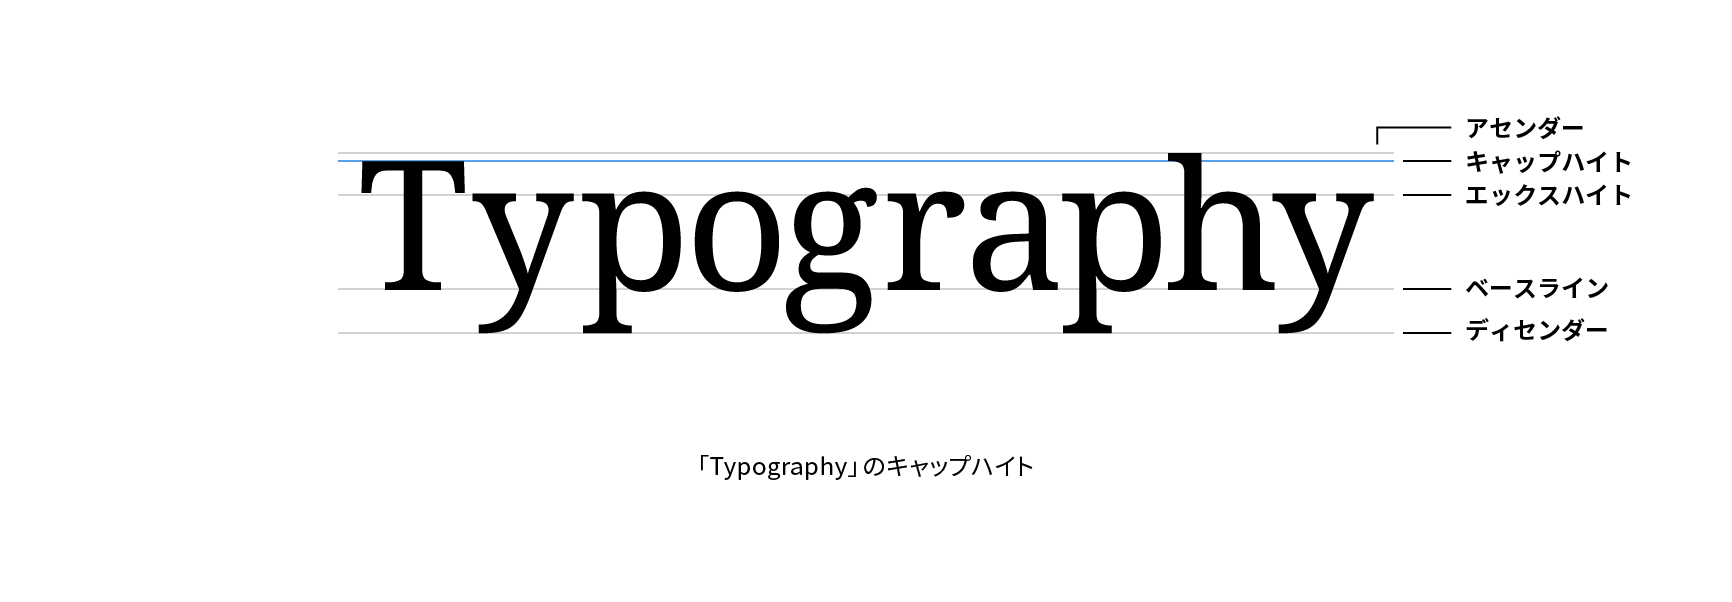
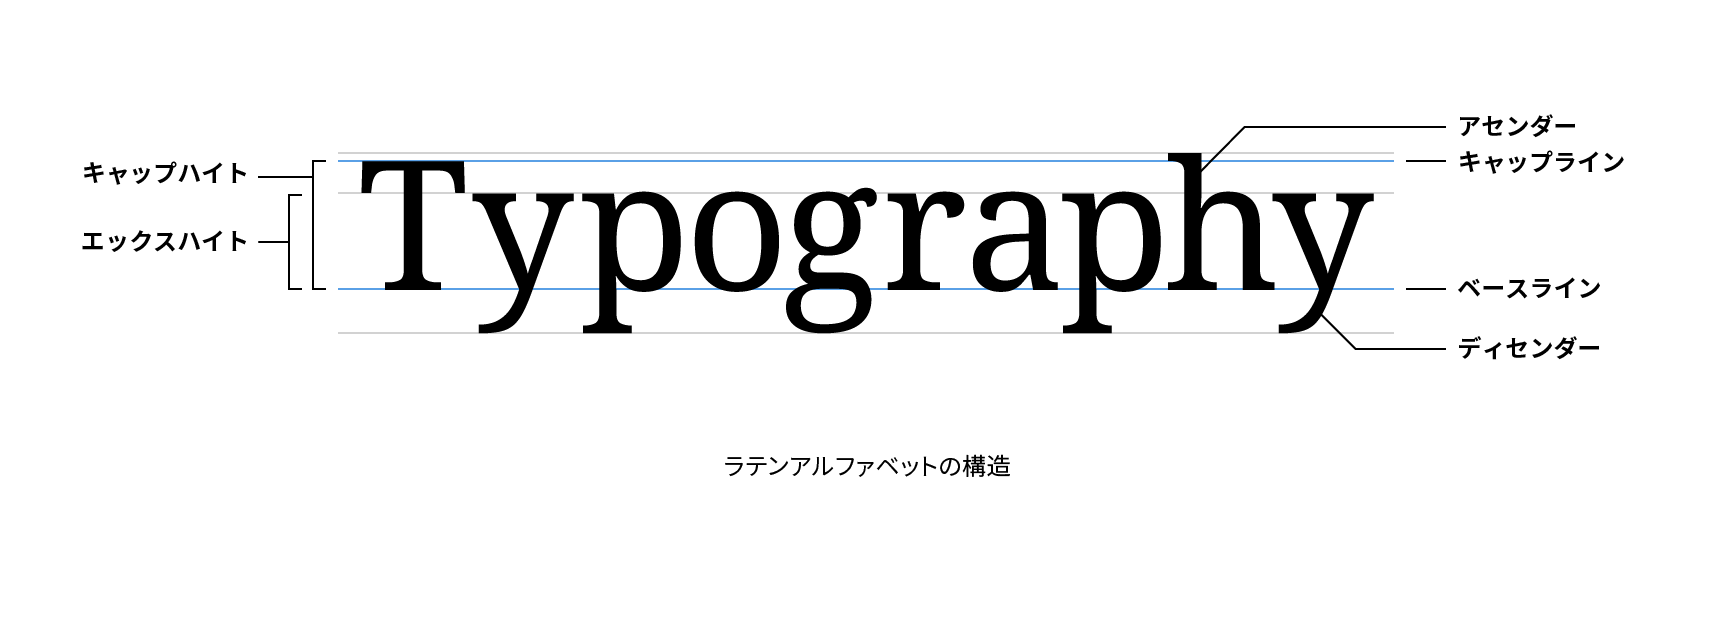
キャップハイト図版修正

diff --git a/terms/cap-height.md b/terms/cap-height.md
@@ -2,7 +2,7 @@
 
 キャップハイト（cap height）はアルファベットの大文字のベースラインから文字の上端までの高さをいいます。キャピタルハイト（capital height）とも呼ばれます。キャップハイトの上端が接する仮想のラインをキャップライン（cap line）といいます。
 
-![「Typography」のキャップハイト](../images/cap-height.png)
+![ラテンアルファベットの構造](../images/cap-height.png)
 
 ## 関連項目
 
